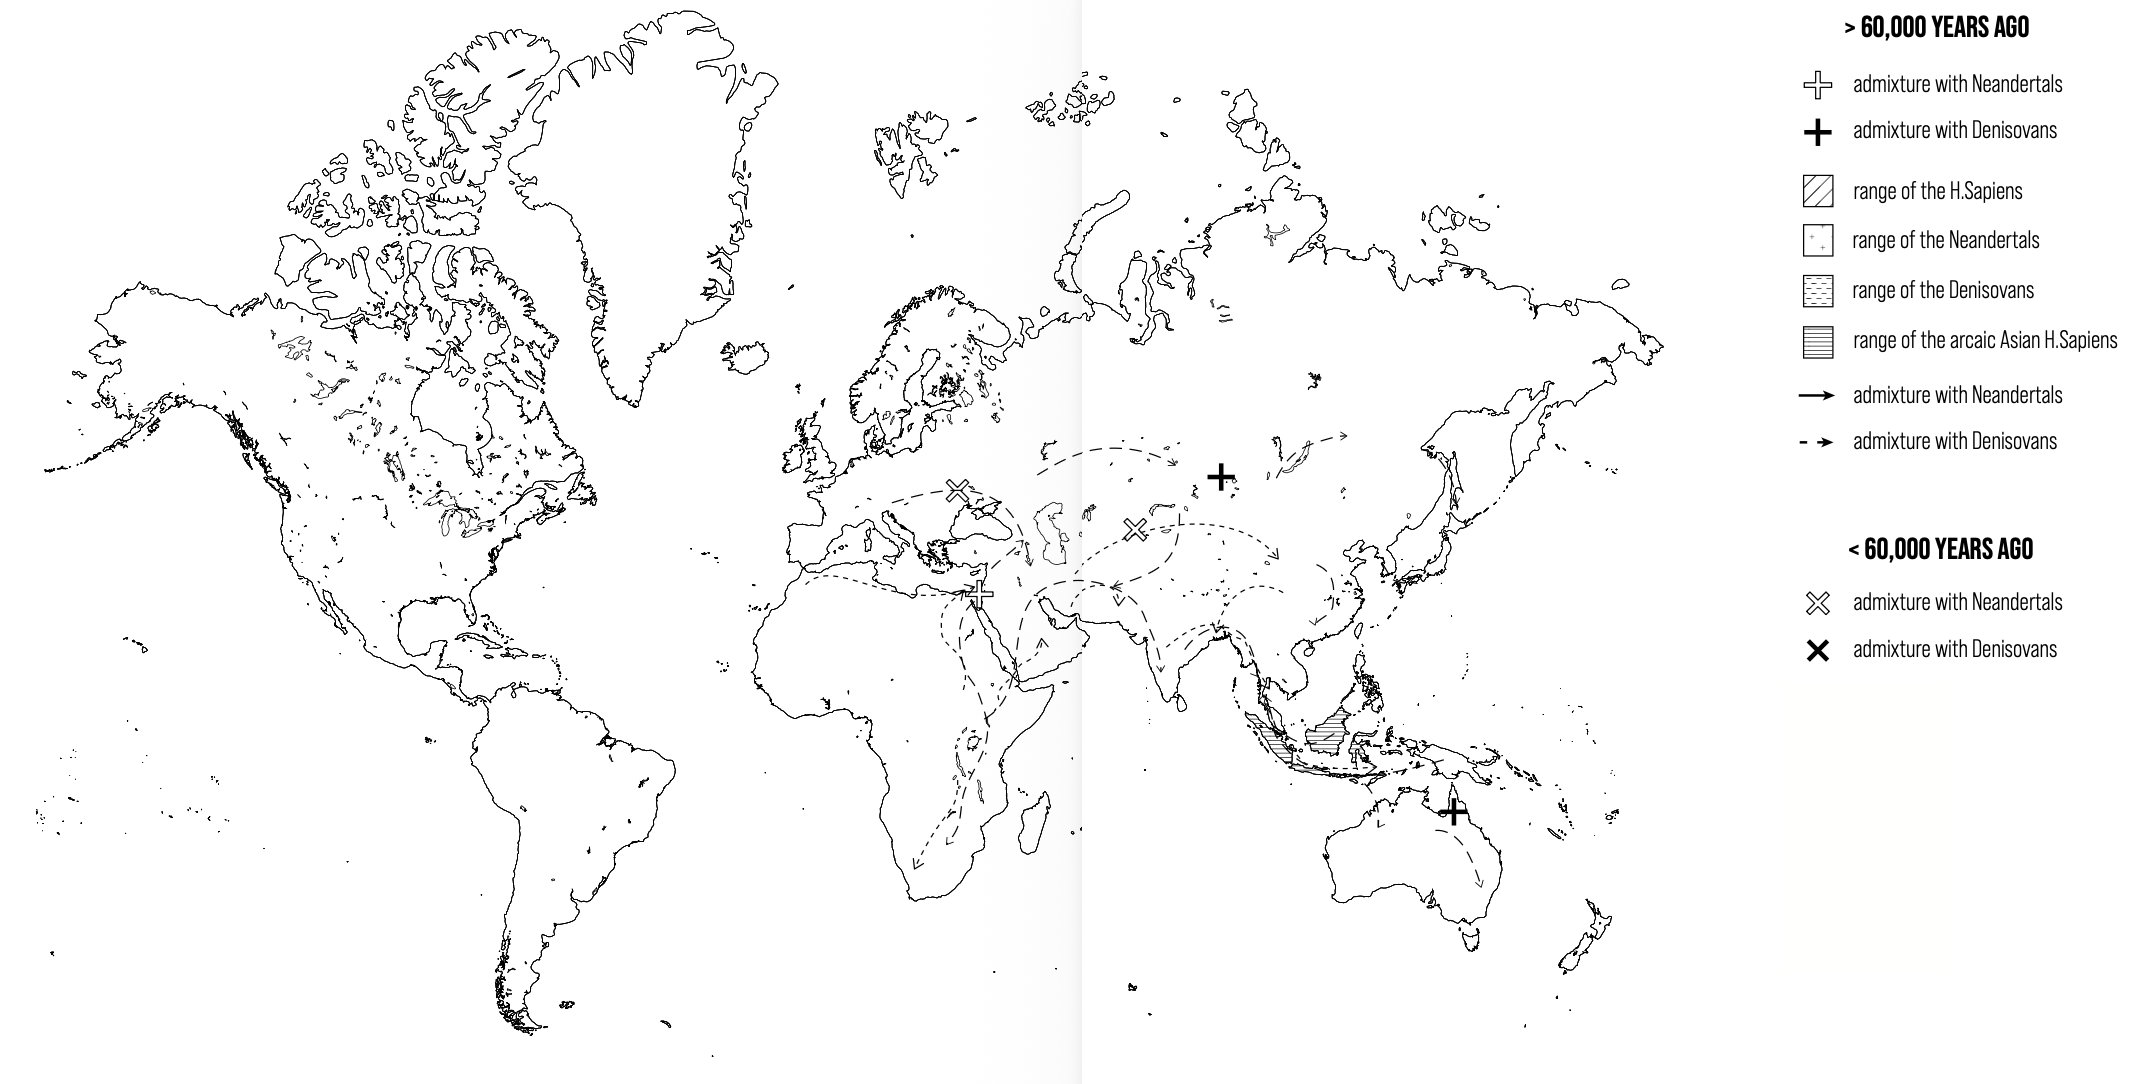
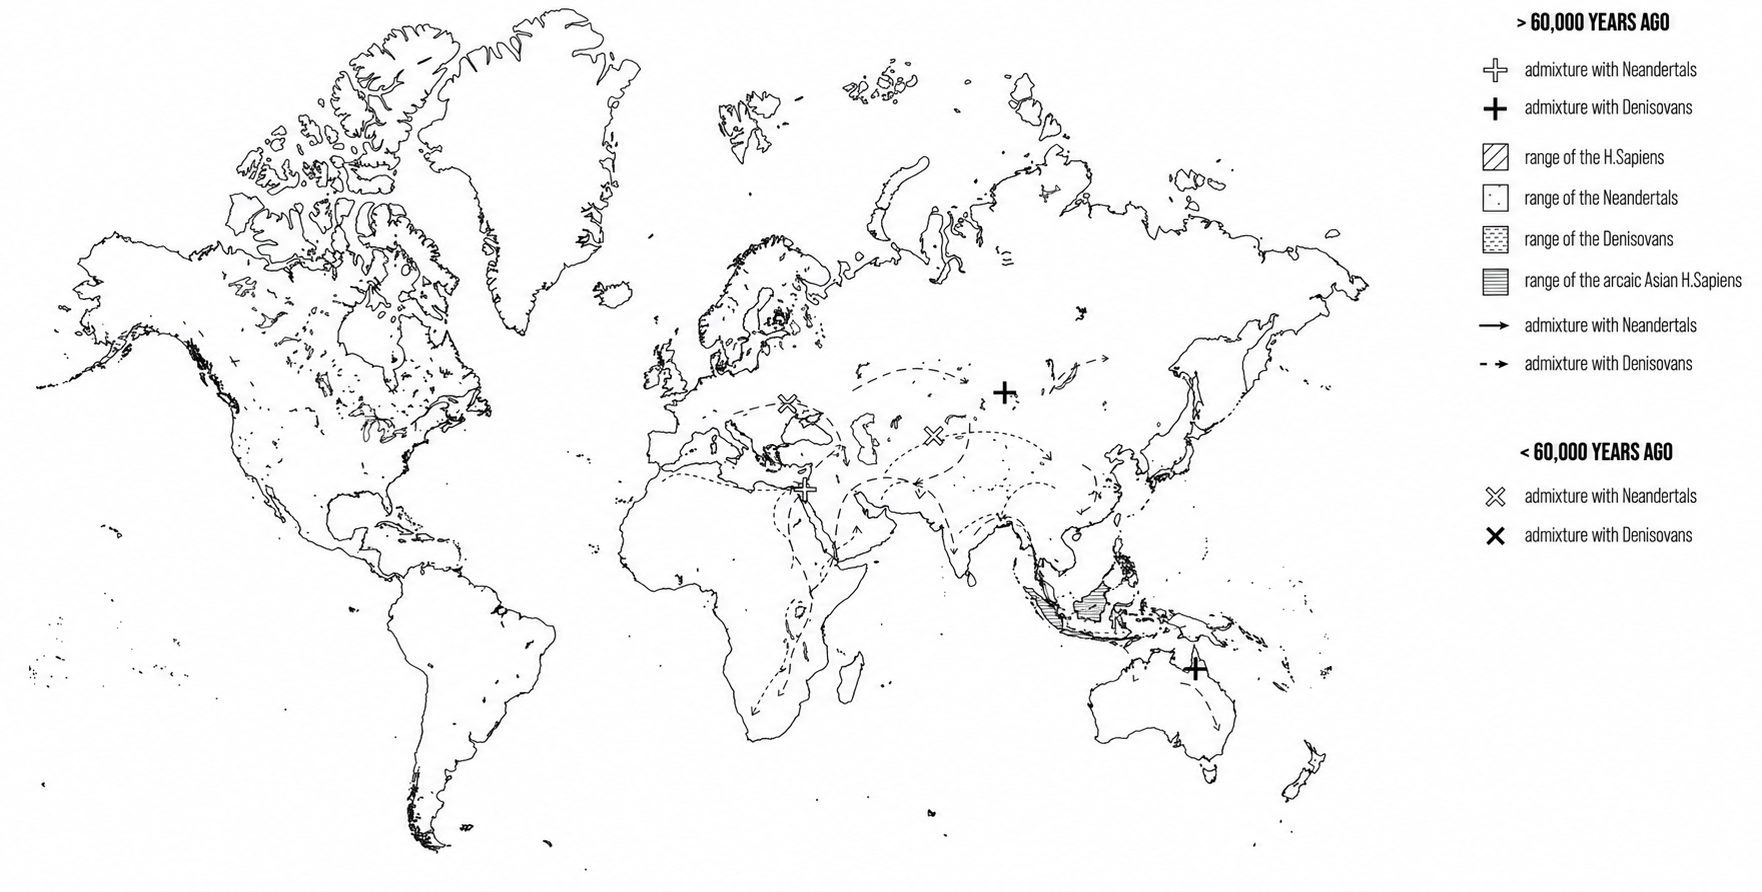
d

diff --git a/thesis.html b/thesis.html
@@ -104,40 +104,28 @@
       <br>
       <!-- Replace each data-zoom-src value below with the final close-up image for that section. -->
       <div class="thesis-section-zoom" data-thesis-section-zoom>
-        <img data-no-figure-caption data-no-image-lightbox
-          src="Images/Thesis/Human Org.jpg"
+        <img  data-no-image-lightbox src="Images/Thesis/Human Org.jpg"
           alt="Diagram of human noting its evolutions over time">
         <div class="thesis-section-zoom-grid" aria-label="Open a closer view of this diagram">
-          <button type="button" class="thesis-section-zoom-hotspot"
-            data-zoom-src="Images/Thesis/thesisphoto1.png"
+          <button type="button" class="thesis-section-zoom-hotspot" data-zoom-src="Images/Thesis/RegHuman Zoom Ins/regimg.png"
             aria-label="Zoom diagram section 1, top left"></button>
-          <button type="button" class="thesis-section-zoom-hotspot"
-            data-zoom-src="Images/Thesis/thesisphoto2.png"
+          <button type="button" class="thesis-section-zoom-hotspot" data-zoom-src="Images/Thesis/RegHuman Zoom Ins/regimg2.png"
             aria-label="Zoom diagram section 2, top right"></button>
-          <button type="button" class="thesis-section-zoom-hotspot"
-            data-zoom-src="Images/Thesis/thesisphoto3.png"
+          <button type="button" class="thesis-section-zoom-hotspot" data-zoom-src="Images/Thesis/RegHuman Zoom Ins/regimg3.png"
             aria-label="Zoom diagram section 3, second row left"></button>
-          <button type="button" class="thesis-section-zoom-hotspot"
-            data-zoom-src="Images/Thesis/thesisphoto4.png"
+          <button type="button" class="thesis-section-zoom-hotspot" data-zoom-src="Images/Thesis/RegHuman Zoom Ins/regimg4.png"
             aria-label="Zoom diagram section 4, second row right"></button>
-          <button type="button" class="thesis-section-zoom-hotspot"
-            data-zoom-src="Images/Thesis/thesisphoto5.png"
+          <button type="button" class="thesis-section-zoom-hotspot" data-zoom-src="Images/Thesis/RegHuman Zoom Ins/regimg5.png"
             aria-label="Zoom diagram section 5, third row left"></button>
-          <button type="button" class="thesis-section-zoom-hotspot"
-            data-zoom-src="Images/Thesis/thesisphoto6.png"
+          <button type="button" class="thesis-section-zoom-hotspot" data-zoom-src="Images/Thesis/RegHuman Zoom Ins/regimg6.png"
             aria-label="Zoom diagram section 6, third row right"></button>
-          <button type="button" class="thesis-section-zoom-hotspot"
-            data-zoom-src="Images/Thesis/dormphoto.png"
+          <button type="button" class="thesis-section-zoom-hotspot" data-zoom-src="Images/Thesis/RegHuman Zoom Ins/regimg7.png"
             aria-label="Zoom diagram section 7, bottom left"></button>
           <button type="button" class="thesis-section-zoom-hotspot"
-            data-zoom-src="Images/Thesis/farnsworthbookletphoto.png"
+            data-zoom-src="Images/Thesis/RegHuman Zoom Ins/regimg8.png"
             aria-label="Zoom diagram section 8, bottom right"></button>
         </div>
       </div>
-       <br>
-        <br>
-
-      <img src="Images/Thesis/Human Org.jpg" alt="Diagram of human noting it's evolutions over time">
       <br>
       <br>
       <img src="Images/Thesis/Screenshot 2026-09-22 at 5.57.14 PM.png" alt="Map of Human expansion outside of the African continent
@@ -150,7 +138,8 @@ planet">
           Before exploring the possibilities of human evolution in the future, it is important to explore and document
           how the human body has shifted and changed until this point, specifically, changes due to inventions,
           innovations, and environmental changes that are precedents to the changes bodies experience today
-          in environmentally controlled building designs.  This timeline maps some of the correlations between invention, space, architecture, and the bodies that use and
+          in environmentally controlled building designs. This timeline maps some of the correlations between invention,
+          space, architecture, and the bodies that use and
           occupy these prosthetics.</p>
 
       </section>
@@ -609,9 +598,18 @@ planet">
         <br><Br>
       </section>
 
-      <div class="project-image-grid-three">
-        <img src="Images/Thesis/ad4.jpg" alt="Architecture as Prosthesis design provocation graphic 1">
+      <div class="project-image-pair">
+        <img src="Images/Thesis/ad1.jpg" alt="Architecture as Prosthesis design provocation graphic 1">
+        <img src="Images/Thesis/ad4.jpg" alt="Architecture as Prosthesis design provocation graphic 2">
+      </div>
+
+      <div class="project-image-pair">
+        <img src="Images/Thesis/ad2.jpg" alt="Architecture as Prosthesis design provocation graphic 1">
         <img src="Images/Thesis/ad5.jpg" alt="Architecture as Prosthesis design provocation graphic 2">
+      </div>
+
+      <div class="project-image-pair">
+        <img src="Images/Thesis/ad3.jpg" alt="Architecture as Prosthesis design provocation graphic 1">
         <img src="Images/Thesis/ad6.jpg" alt="Architecture as Prosthesis design provocation graphic 3">
       </div>
 
@@ -664,8 +662,8 @@ planet">
     </div>
   </main>
 
-  <div class="thesis-section-zoom-modal" id="thesisSectionZoomModal"
-    role="dialog" aria-modal="true" aria-label="Enlarged thesis image section" aria-hidden="true">
+  <div class="thesis-section-zoom-modal" id="thesisSectionZoomModal" role="dialog" aria-modal="true"
+    aria-label="Enlarged thesis image section" aria-hidden="true">
     <div class="thesis-section-zoom-dialog">
       <button type="button" class="thesis-section-zoom-close" aria-label="Close enlarged image">×</button>
       <img data-no-figure-caption data-no-image-lightbox class="thesis-section-zoom-image" alt="">
